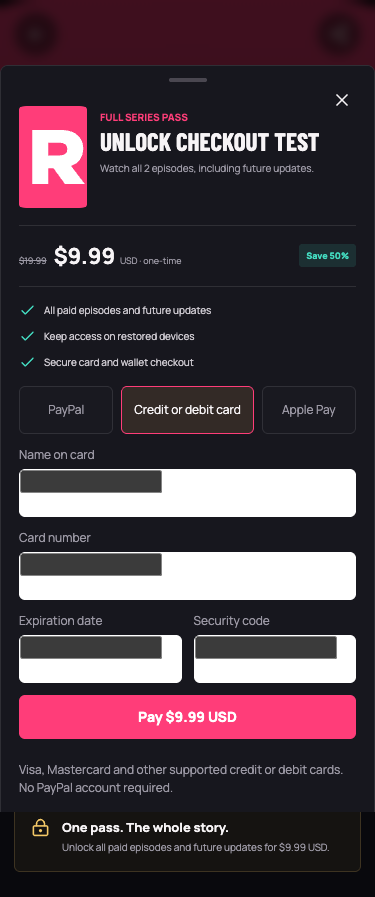
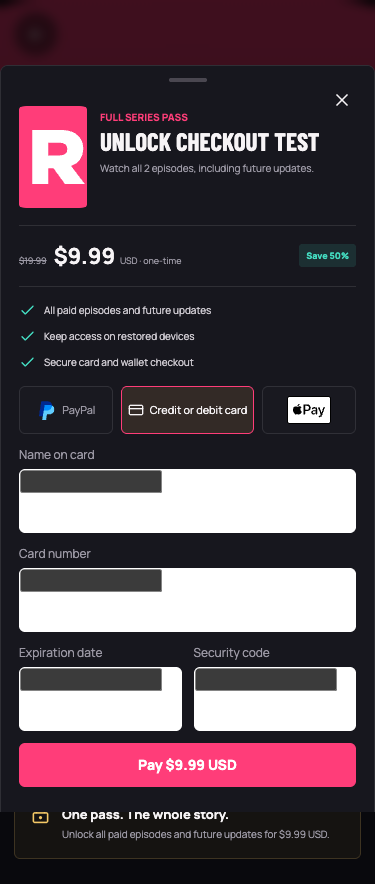
feat: 优化支付提供商加载逻辑，增加对 PayPal 和 Apple Pay 的支持，提升用户体验

diff --git a/components/UnlockSheet.vue b/components/UnlockSheet.vue
@@ -48,7 +48,8 @@ const activeOrder = shallowRef<Order | null>(null);
 const conflictPayPalId = ref('');
 const checkoutKey = ref('');
 const paypalAvailable = computed(() => Boolean(paymentConfig.value?.available && paymentConfig.value.clientId));
-// Only show progress for the selected method; other providers may still be loading.
+// Only the selected provider is mounted. This avoids competing PayPal iframes
+// and eligibility requests on constrained mobile connections.
 const selectedMethodLoading = computed(() => {
   if (!methodSelected.value) return false;
   if (paymentMethod.value === 'apple_pay') return appleLoading.value || (loading.value && !appleReady.value && !appleMessage.value);
@@ -190,12 +191,14 @@ const cancelCheckout = async () => {
 };
 const selectMethod = async (method: PaymentMethod) => {
   if (processing.value) return;
+  const wasSelected = methodSelected.value;
   methodSelected.value = true;
   // A provider error belongs to the previously selected method. Clear it even
   // when the user taps the already highlighted PayPal button to recover.
   error.value = '';
   if (method === paymentMethod.value) {
     status.value = 'pending';
+    if (!wasSelected || !paypalReady.value) void nextTick(initialize);
     return;
   }
   const id = conflictPayPalId.value || activeOrder.value?.paypalOrderId;
@@ -216,6 +219,7 @@ const selectMethod = async (method: PaymentMethod) => {
   paymentMethod.value = method;
   status.value = 'pending';
   checkoutKey.value = '';
+  void nextTick(initialize);
 };
 const validateCardState = (state: any) => {
   const messages: Record<string, string> = {};
@@ -324,12 +328,62 @@ const initializeApplePay = async () => {
     appleMessage.value = applePayLoadFailureMessage();
   } finally { if (currentGeneration === generation) appleLoading.value = false; }
 };
+const initializePayPalButtons = async (paypal: any, currentGeneration: number) => {
+  if (paypalReady.value || buttons || !paypalContainer.value) return;
+  try {
+    buttons = paypal.Buttons({
+      fundingSource: paypal.FUNDING.PAYPAL,
+      style: { layout: 'vertical', color: 'gold', shape: 'rect', label: 'paypal', tagline: false, height: 48 },
+      createOrder: async () => {
+        if (processing.value) throw new Error('Payment already in progress');
+        busy.value = true;
+        try { return (await createOrder('paypal')).paypalOrderId; }
+        catch (reason) { busy.value = false; showFailure(reason); throw reason; }
+      },
+      onApprove: async ({ orderID }: { orderID: string }) => {
+        try { await completePayment(orderID); } finally { busy.value = false; }
+      },
+      onCancel: async () => { busy.value = false; await cancelCheckout(); },
+      onError: (reason: unknown) => { busy.value = false; showFailure(reason); },
+    });
+    await withPaymentTimeout(buttons.render(paypalContainer.value));
+    if (currentGeneration === generation) paypalReady.value = true;
+  } catch {
+    if (currentGeneration === generation) sdkFailed.value = true;
+  }
+};
+const initializeCardFields = async (paypal: any, currentGeneration: number) => {
+  if (cardReady.value || cardFields || !cardContainer.value) return;
+  try {
+    cardFields = paypal.CardFields?.({
+      style: { input: { 'font-size': '16px', 'line-height': '24px', padding: '10px', color: '#1f2937' }, '.invalid': { color: '#b91c1c' } },
+      inputEvents: { onChange: (state: any) => { if (cardValidationAttempted.value) validateCardState(state); } },
+      createOrder: async () => (await createOrder('card')).paypalOrderId,
+      onApprove: ({ orderID }: { orderID: string }) => completePayment(orderID),
+      onError: (reason: unknown) => showFailure(reason, 'Card payment could not be completed. Please check your details.'),
+    });
+    if (cardFields?.isEligible()) {
+      const definitions = [['NameField', 'name', 'Name on card'], ['NumberField', 'number', 'Card number'], ['ExpiryField', 'expiry', 'MM / YY'], ['CVVField', 'cvv', 'Security code']];
+      const fields = definitions.map(([factory, field, label]) => ({
+        hostedField: cardFields[factory]({ placeholder: label }),
+        container: cardContainer.value!.querySelector(`[data-card-${field}]`),
+      }));
+      renderedFields.push(...fields.map(({ hostedField }) => hostedField));
+      await withPaymentTimeout(Promise.all(fields.map(({ hostedField, container }) => hostedField.render(container))));
+      if (currentGeneration === generation) cardReady.value = true;
+    } else if (currentGeneration === generation) {
+      cardMessage.value = 'Direct card payment is unavailable for this checkout. You can still use PayPal.';
+    }
+  } catch {
+    if (currentGeneration === generation) cardMessage.value = 'Card fields could not be loaded. Please reopen checkout to retry or use PayPal.';
+  }
+};
 const initialize = async () => {
-  if (!props.open || !isAuthenticated.value || !purchasable.value || loading.value) return;
+  if (!props.open || !methodSelected.value || !isAuthenticated.value || !purchasable.value || loading.value) return;
   const currentGeneration = generation;
+  const requestedMethod = paymentMethod.value;
   loading.value = true;
-  sdkFailed.value = false;
-  paypalReady.value = false;
+  if (requestedMethod === 'paypal') sdkFailed.value = false;
   try {
     // Reuse recent configuration and any in-flight request from page entry.
     if (!paypalAvailable.value || paymentConfigError.value || Date.now() - paymentConfig.value!.fetchedAt > 60_000) {
@@ -340,63 +394,23 @@ const initialize = async () => {
     if (!paypalAvailable.value) return;
     await nextTick();
     const paypal = await loadPayPalSdk(paymentConfig.value!.clientId);
-    if (currentGeneration !== generation || !paypalContainer.value || !cardContainer.value) return;
+    if (currentGeneration !== generation) return;
     sdkFailed.value = false;
-    const initializePayPalButtons = async () => {
-      try {
-        buttons = paypal.Buttons({
-          fundingSource: paypal.FUNDING.PAYPAL,
-          style: { layout: 'vertical', color: 'gold', shape: 'rect', label: 'paypal', tagline: false, height: 48 },
-          createOrder: async () => {
-            if (processing.value) throw new Error('Payment already in progress');
-            busy.value = true;
-            try { return (await createOrder('paypal')).paypalOrderId; }
-            catch (reason) { busy.value = false; showFailure(reason); throw reason; }
-          },
-          onApprove: async ({ orderID }: { orderID: string }) => {
-            try { await completePayment(orderID); } finally { busy.value = false; }
-          },
-          onCancel: async () => { busy.value = false; await cancelCheckout(); },
-          onError: (reason: unknown) => { busy.value = false; showFailure(reason); },
-        });
-        await withPaymentTimeout(buttons.render(paypalContainer.value));
-        if (currentGeneration === generation) paypalReady.value = true;
-      } catch { if (currentGeneration === generation) sdkFailed.value = true; }
-    };
-    const initializeCardFields = async () => {
-      try {
-        cardFields = paypal.CardFields?.({
-          style: { input: { 'font-size': '16px', 'line-height': '24px', padding: '10px', color: '#1f2937' }, '.invalid': { color: '#b91c1c' } },
-          inputEvents: { onChange: (state: any) => { if (cardValidationAttempted.value) validateCardState(state); } },
-          createOrder: async () => (await createOrder('card')).paypalOrderId,
-          onApprove: ({ orderID }: { orderID: string }) => completePayment(orderID),
-          onError: (reason: unknown) => showFailure(reason, 'Card payment could not be completed. Please check your details.'),
-        });
-        if (cardFields?.isEligible()) {
-          const definitions = [['NameField', 'name', 'Name on card'], ['NumberField', 'number', 'Card number'], ['ExpiryField', 'expiry', 'MM / YY'], ['CVVField', 'cvv', 'Security code']];
-          const fields = definitions.map(([factory, field, label]) => ({
-            hostedField: cardFields[factory]({ placeholder: label }),
-            container: cardContainer.value!.querySelector(`[data-card-${field}]`),
-          }));
-          renderedFields.push(...fields.map(({ hostedField }) => hostedField));
-          await withPaymentTimeout(Promise.all(fields.map(({ hostedField, container }) => hostedField.render(container))));
-          if (currentGeneration === generation) cardReady.value = true;
-        } else if (currentGeneration === generation) cardMessage.value = 'Direct card payment is unavailable for this checkout. You can still use PayPal.';
-      } catch { if (currentGeneration === generation) cardMessage.value = 'Card fields could not be loaded. Please reopen checkout to retry or use PayPal.'; }
-    };
-    await Promise.all([
-      initializePayPalButtons(),
-      initializeCardFields(),
-      initializeApplePay(),
-    ]);
+    if (requestedMethod === 'paypal') await initializePayPalButtons(paypal, currentGeneration);
+    else if (requestedMethod === 'card') await initializeCardFields(paypal, currentGeneration);
+    else await initializeApplePay();
   } catch {
     if (currentGeneration !== generation) return;
-    sdkFailed.value = true;
-    cardMessage.value = 'Card payment could not be loaded. Please reopen checkout to retry.';
-    appleMessage.value = applePayLoadFailureMessage();
-    appleRetryable.value = true;
+    if (requestedMethod === 'paypal') sdkFailed.value = true;
+    else if (requestedMethod === 'card') cardMessage.value = 'Card payment could not be loaded. Please reopen checkout to retry.';
+    else { appleMessage.value = applePayLoadFailureMessage(); appleRetryable.value = true; }
     error.value = paypalAvailable.value ? '' : 'Payment options could not be loaded. Please retry below.';
-  } finally { if (currentGeneration === generation) loading.value = false; }
+  } finally {
+    if (currentGeneration === generation) {
+      loading.value = false;
+      if (props.open && methodSelected.value && paymentMethod.value !== requestedMethod) void nextTick(initialize);
+    }
+  }
 };
 const checkout = async () => {
   emit('close');
@@ -434,18 +448,16 @@ watch([paymentConfig, isAuthenticated], () => {
   if (!import.meta.client || props.open || !isAuthenticated.value || !purchasable.value || props.series.purchased || !paypalAvailable.value) return;
   const clientId = paymentConfig.value!.clientId;
   void loadPayPalSdk(clientId).catch(() => undefined);
-  if (supportsApplePay()) void prepareApplePay(clientId).catch(() => undefined);
 }, { immediate: true, flush: 'post' });
 const close = () => { if (!busy.value) emit('close'); };
 watch(() => props.open, (open) => {
   if (!import.meta.client) return;
   if (!open) { dispose(); return; }
-  methodSelected.value = true;
+  methodSelected.value = false;
   void track('payment_sheet_open', { seriesId: props.series.id, seriesTitle: props.series.title });
   if (status.value === 'processing') { polls = 0; void checkPayment(); }
   else if (status.value !== 'paid') { error.value = ''; status.value = 'pending'; }
   cardMessage.value = ''; appleMessage.value = '';
-  void nextTick(initialize);
 }, { immediate: true });
 watch(isAuthenticated, () => { if (props.open) void nextTick(initialize); });
 onBeforeUnmount(dispose);
@@ -508,6 +520,7 @@ onBeforeUnmount(dispose);
                     <span v-if="method !== 'apple_pay'">{{ label }}</span>
                   </button>
                 </div>
+                <p v-if="!methodSelected" class="checkout-hint">Choose how you would like to pay.</p>
                 <div v-if="selectedMethodLoading" class="checkout-loading" role="status" aria-live="polite">
                   <LoaderCircle class="spin" :size="18" aria-hidden="true" />
                   <div><strong>Preparing {{ methodLabels[paymentMethod] }}…</strong><p>{{ slowPayment ? 'Taking longer than usual. You can choose another payment method.' : 'Connecting securely. You have not been charged.' }}</p></div>

diff --git a/server/utils/paypal.ts b/server/utils/paypal.ts
@@ -13,7 +13,7 @@ import {
   isTerminalCaptureFailureStatus,
 } from '~/server/utils/paypal-payment-state';
 
-interface PayPalAccessToken { access_token: string }
+interface PayPalAccessToken { access_token: string; expires_in?: number }
 interface PayPalLink { rel: string; href: string }
 interface PayPalOrderResponse { id: string; status: string; links?: PayPalLink[] }
 interface PayPalRefundResponse { id: string; status: string; amount?: { currency_code: string; value: string } }
@@ -145,8 +145,8 @@ const environmentStatus = (event: H3Event, environment: PayPalEnvironment) => {
   };
 };
 
-export const getPayPalConfigurationStatus = async (event: H3Event) => {
-  const environment = await getActivePayPalEnvironment(event);
+export const getPayPalConfigurationStatus = async (event: H3Event, requestedEnvironment?: PayPalEnvironment) => {
+  const environment = requestedEnvironment || await getActivePayPalEnvironment(event);
   const current = environmentStatus(event, environment);
   return {
     ...current,
@@ -175,13 +175,44 @@ const configFor = async (event: H3Event, requestedEnvironment?: PayPalEnvironmen
 
 export const requirePayPalConfiguration = (event: H3Event, environment?: PayPalEnvironment) => configFor(event, environment);
 
+interface CachedPayPalToken {
+  token: string;
+  baseUrl: string;
+  expiresAt: number;
+}
+
+const accessTokenCache = new Map<string, CachedPayPalToken>();
+const accessTokenRequests = new Map<string, Promise<CachedPayPalToken>>();
+
 const accessToken = async (event: H3Event, environment?: PayPalEnvironment): Promise<{ token: string; baseUrl: string }> => {
-  const { clientId, secret, baseUrl } = await configFor(event, environment);
-  const auth = btoa(`${clientId}:${secret}`);
-  const response = await paypalRequest<PayPalAccessToken>(`${baseUrl}/v1/oauth2/token`, {
-    method: 'POST', timeout: paypalRequestTimeoutMs, headers: { Authorization: `Basic ${auth}`, 'Content-Type': 'application/x-www-form-urlencoded' }, body: 'grant_type=client_credentials',
-  }, 'authentication');
-  return { token: response.access_token, baseUrl };
+  const config = await configFor(event, environment);
+  const cacheKey = `${config.environment}:${config.clientId}`;
+  const cached = accessTokenCache.get(cacheKey);
+  if (cached && cached.expiresAt > Date.now()) return { token: cached.token, baseUrl: cached.baseUrl };
+
+  const pending = accessTokenRequests.get(cacheKey);
+  if (pending) return pending;
+
+  const request = (async () => {
+    const auth = btoa(`${config.clientId}:${config.secret}`);
+    const response = await paypalRequest<PayPalAccessToken>(`${config.baseUrl}/v1/oauth2/token`, {
+      method: 'POST', timeout: paypalRequestTimeoutMs, headers: { Authorization: `Basic ${auth}`, 'Content-Type': 'application/x-www-form-urlencoded' }, body: 'grant_type=client_credentials',
+    }, 'authentication');
+    const lifetimeSeconds = Number.isFinite(response.expires_in) ? Number(response.expires_in) : 300;
+    const entry = {
+      token: response.access_token,
+      baseUrl: config.baseUrl,
+      expiresAt: Date.now() + Math.max(30, lifetimeSeconds - 60) * 1000,
+    };
+    accessTokenCache.set(cacheKey, entry);
+    return entry;
+  })();
+  accessTokenRequests.set(cacheKey, request);
+  try {
+    return await request;
+  } finally {
+    if (accessTokenRequests.get(cacheKey) === request) accessTokenRequests.delete(cacheKey);
+  }
 };
 
 export const testPayPalConnection = async (event: H3Event, environment?: PayPalEnvironment): Promise<boolean> => Boolean((await accessToken(event, environment)).token);

diff --git a/utils/paypal-sdk.ts b/utils/paypal-sdk.ts
@@ -27,7 +27,9 @@ export const loadPayPalSdk = (clientId: string): Promise<any> => {
         reject(error);
       } else resolve((window as any).paypal);
     };
-    const timer = window.setTimeout(() => finish(new Error('Payment options took too long to load.')), 10_000);
+    // PayPal can take longer than 10 seconds on a cold mobile connection even
+    // though the SDK is still downloading successfully.
+    const timer = window.setTimeout(() => finish(new Error('Payment options took too long to load.')), 30_000);
     script.onload = () => finish((window as any).paypal ? undefined : new Error('Payment SDK unavailable.'));
     script.onerror = () => finish(new Error('Payment options could not be loaded.'));
     document.head.appendChild(script);
@@ -58,7 +60,7 @@ export const prepareApplePay = (clientId: string) => {
     try {
       const config = await Promise.race([
         applepay.config(),
-        new Promise<never>((_, reject) => { timer = setTimeout(() => reject(new Error('Apple Pay configuration timed out.')), 10_000); }),
+        new Promise<never>((_, reject) => { timer = setTimeout(() => reject(new Error('Apple Pay configuration timed out.')), 20_000); }),
       ]);
       return { applepay, config };
     } finally { clearTimeout(timer); }

diff --git a/server/api/paypal/config.get.ts b/server/api/paypal/config.get.ts
@@ -4,7 +4,7 @@ import { getActivePayPalEnvironment, getPayPalConfigurationStatus } from '~/serv
 export default defineEventHandler(async (event) => {
   const environment = await getActivePayPalEnvironment(event);
   const config = useRuntimeConfig(event);
-  const status = await getPayPalConfigurationStatus(event);
+  const status = await getPayPalConfigurationStatus(event, environment);
   const legacyEnvironment = config.paypalEnvironment === 'production' ? 'production' : 'sandbox';
   const specificClientId = environment === 'production'
     ? String(config.paypalProductionBrowserClientId || '')

diff --git a/pages/series/[slug].vue b/pages/series/[slug].vue
@@ -5,6 +5,12 @@ import { useAnalytics } from '~/composables/useAnalytics';
 import { invalidatePageDataCache, usePageData } from '~/composables/usePageData';
 
 definePageMeta({ hideBottomNav: true, keepalive: true });
+useHead({
+  link: [
+    { rel: 'preconnect', href: 'https://www.paypal.com' },
+    { rel: 'preconnect', href: 'https://www.paypalobjects.com', crossorigin: 'anonymous' },
+  ],
+});
 const route = useRoute();
 const api = useContentApi();
 const goBack = useSafeBack(() => '/');
